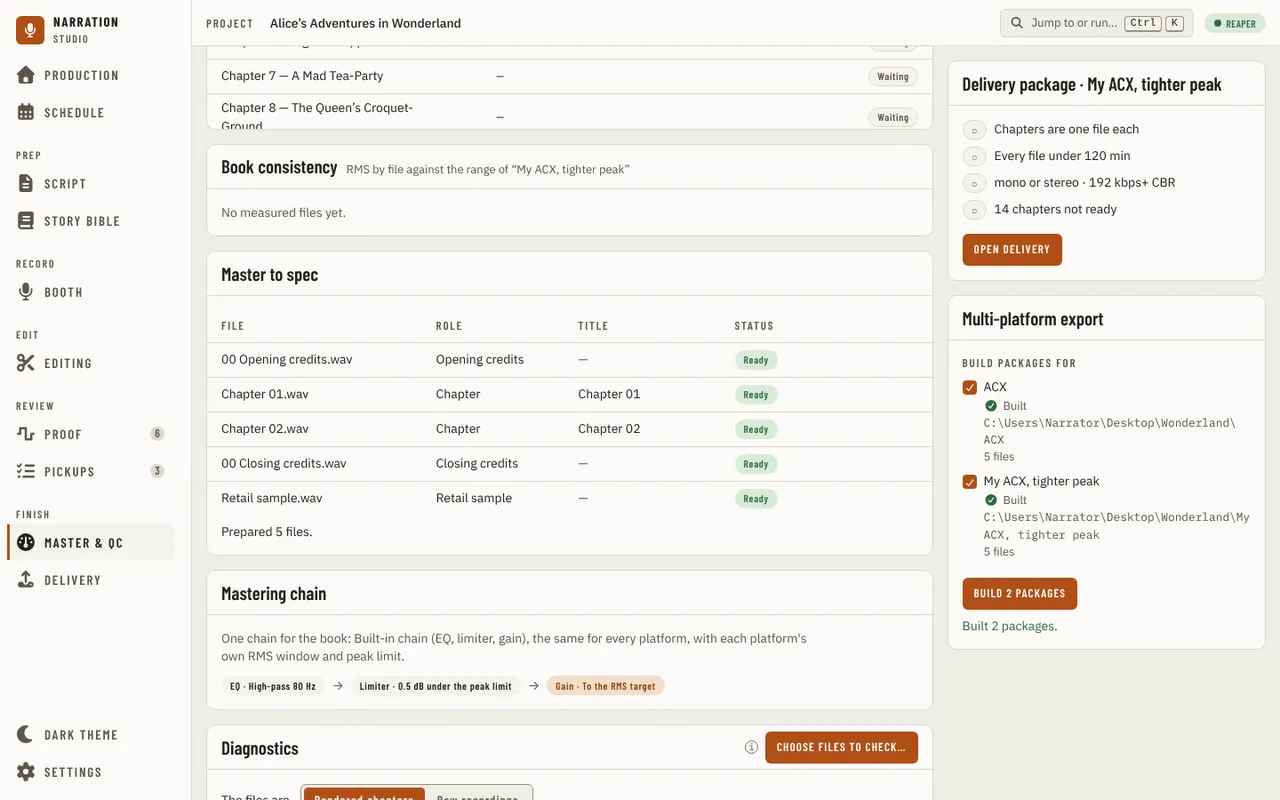
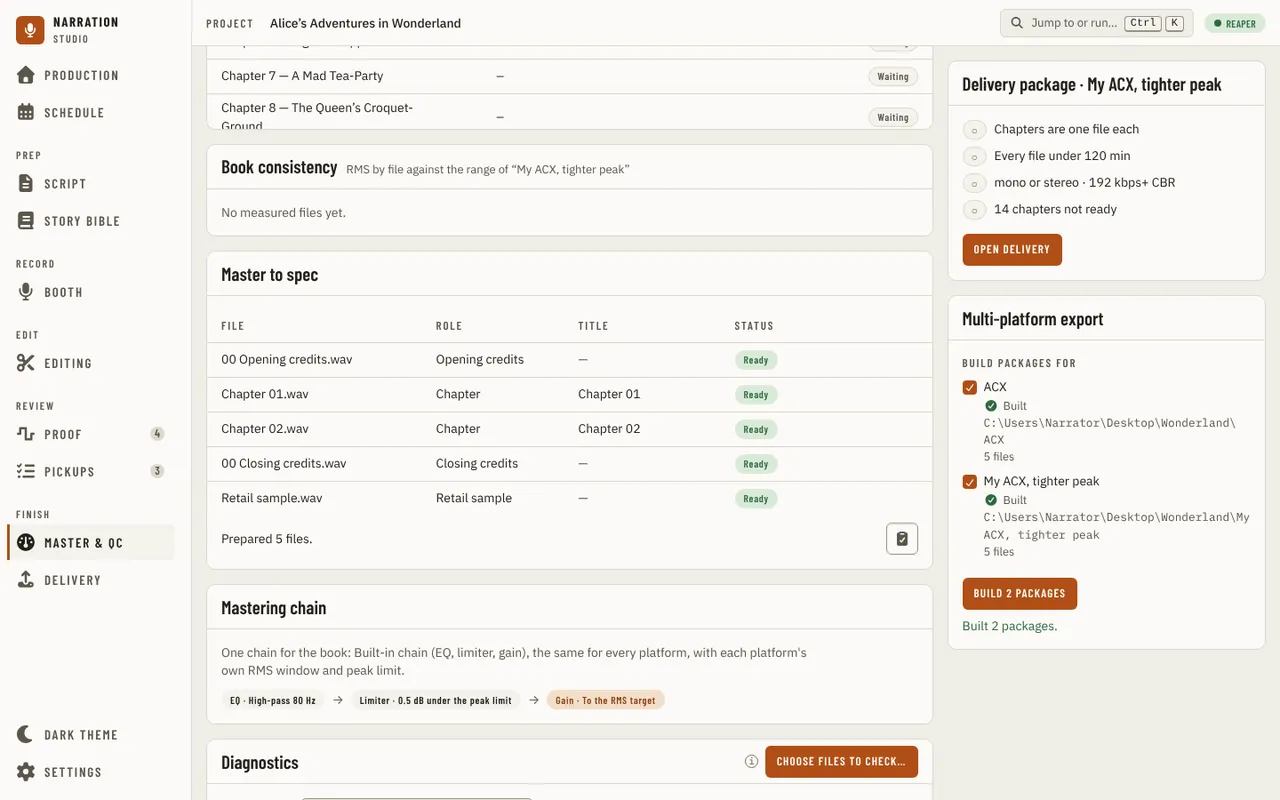
fix(ui): say the exported files are new copies and offer check files (#2661)

diff --git a/src/studio/ui/src/components/master/MasterToSpecPanel.tsx b/src/studio/ui/src/components/master/MasterToSpecPanel.tsx
@@ -2,6 +2,7 @@ import { useEffect, useRef } from 'react';
 import type { ExportJob, PackageItemKind } from '../../types';
 import { useErrorToast } from '../../hooks/useErrorToast';
 import { Button } from '../primitives/Button';
+import { IconButton } from '../primitives/IconButton';
 import { Checkbox } from '../primitives/Checkbox';
 import { Panel } from '../primitives/Panel';
 import { ProgressBar } from '../primitives/ProgressBar';
@@ -54,7 +55,7 @@ const TABLE_FLOOR = 'min-w-[44rem]';
  * with its role in the package and, for a chapter, its title, then Master & encode as one job with real progress and Cancel. It
  * appears once files are picked or a job exists; before that the page's header action is the way in.
  */
-export function MasterToSpecPanel({ jobs, chainLabel }: { jobs: ExportJobs; chainLabel?: string }) {
+export function MasterToSpecPanel({ jobs, chainLabel, onCheckFiles }: { jobs: ExportJobs; chainLabel?: string; onCheckFiles?: () => void }) {
   const { items, exportJob, exportRunning, problem } = jobs;
   const started = !!exportJob?.files.length;
   const hasFiles = items.length > 0 || started;
@@ -188,9 +189,15 @@ export function MasterToSpecPanel({ jobs, chainLabel }: { jobs: ExportJobs; chai
         </div>
       )}
       {exportJob && !exportRunning && exportJob.phase !== 'idle' && exportJob.phase !== 'error' && (
-        <p aria-live="polite" className={`mt-2 text-sm ${ARRIVE_CLASSES}`}>
-          {exportJob.message}
-        </p>
+        <div className={`mt-2 flex flex-wrap items-center justify-between gap-2 ${ARRIVE_CLASSES}`}>
+          <p aria-live="polite" className="min-w-0 flex-[1_1_20rem] text-sm">
+            {exportJob.message}
+          </p>
+          {exportJob.phase === 'success' && onCheckFiles && (
+            // The export writes new copies and measures nothing, so Delivery and the table above still go by the files that were checked (issue 2631): the tooltip says so.
+            <IconButton action="checkPreparedFiles" onClick={onCheckFiles} />
+          )}
+        </div>
       )}
     </Panel>
   );

diff --git a/src/studio/ui/src/components/master/MasterToSpecPanel.test.tsx b/src/studio/ui/src/components/master/MasterToSpecPanel.test.tsx
@@ -1,5 +1,5 @@
 // @vitest-environment jsdom
-import { cleanup, render, screen } from '@testing-library/react';
+import { cleanup, fireEvent, render, screen } from '@testing-library/react';
 import { afterEach, describe, expect, it, vi } from 'vitest';
 import type { ExportItem } from '../../types';
 import { toastTexts } from '../../fixtures/toasts';
@@ -54,5 +54,29 @@ describe('MasterToSpecPanel: showing up', () => {
     expect(toastTexts()).toEqual(['The encoder stopped.']);
     expect(container.textContent).not.toContain('The encoder stopped.');
     expect(screen.queryByRole('alert')).toBeNull();
+  });
+});
+
+describe('MasterToSpecPanel: after the files are prepared (issue 2631)', () => {
+  const done = {
+    phase: 'success',
+    message: 'Prepared 1 files.',
+    percent: 100,
+    files: [{ path: item.path, kind: 'chapter', title: 'Chapter 01', status: 'done' }],
+  };
+
+  it('offers an icon button that checks the prepared files, and draws no explanatory sentence', () => {
+    const onCheckFiles = vi.fn();
+    render(<MasterToSpecPanel jobs={jobs({ exportJob: done as never, items: [item] })} onCheckFiles={onCheckFiles} />);
+    expect(screen.queryByText(/new copies/i)).toBeNull();
+    fireEvent.click(screen.getByRole('button', { name: /check the prepared files/i }));
+    expect(onCheckFiles).toHaveBeenCalledTimes(1);
+  });
+
+  it('offers no Check files… after a failed or cancelled export, or when the page gives no way to check', () => {
+    const { rerender } = render(<MasterToSpecPanel jobs={jobs({ exportJob: { ...done, phase: 'error' } as never })} onCheckFiles={() => undefined} />);
+    expect(screen.queryByRole('button', { name: /check the prepared files/i })).toBeNull();
+    rerender(<MasterToSpecPanel jobs={jobs({ exportJob: done as never })} />);
+    expect(screen.queryByRole('button', { name: /check the prepared files/i })).toBeNull();
   });
 });

diff --git a/src/studio/ui/src/icons.catalog.ts b/src/studio/ui/src/icons.catalog.ts
@@ -32,6 +32,7 @@ import {
   faChevronRight,
   faChevronUp,
   faCheckDouble,
+  faClipboardCheck,
   faCircle,
   faCircleCheck,
   faClockRotateLeft,
@@ -232,6 +233,7 @@ export const CATALOG = {
   zoomOut: action(faMagnifyingGlassMinus, 'zoom out', 'Zoom out'),
   scrollWaveBack: action(faCaretLeft, 'scroll the waveform back', 'Scroll the waveform back'),
   scrollWaveForward: action(faCaretRight, 'scroll the waveform forward', 'Scroll the waveform forward'),
+  checkPreparedFiles: action(faClipboardCheck, 'check prepared files', 'Check the prepared files so Delivery counts them'),
   checkRecordings: action(faEarListen, 'check recordings', 'Check recordings'),
   problem: action(faTriangleExclamation, 'problem', 'Show the problem'),
   // The recording check's activity panel: the figures it labels, drawn with `Icon` and named by their tooltip.

diff --git a/src/studio/ui/src/components/masterqc/page/MasterPage.tsx b/src/studio/ui/src/components/masterqc/page/MasterPage.tsx
@@ -296,7 +296,7 @@ function MasterBody({ projectFolder, onOpenDelivery, openSettings, fileActions, 
             <Panel title="Book consistency" subtitle={profile ? `RMS by file against ${rangeOf(profile)}` : undefined}>
               <Consistency files={run.files} profile={profile} />
             </Panel>
-            <MasterToSpecPanel jobs={jobs} chainLabel={chain?.label} />
+            <MasterToSpecPanel jobs={jobs} chainLabel={chain?.label} onCheckFiles={() => void run.chooseOther()} />
             <MasteringChain providers={mastering.providers} problem={mastering.problem} />
             <DiagnosticsSection measuredPaths={run.paths} openSettings={openSettings} />
             <ReportExportPanel busy={run.running} measured={run.files.length > 0} />

diff --git a/docs/guides/using-the-app/master-and-qc.md b/docs/guides/using-the-app/master-and-qc.md
@@ -124,6 +124,10 @@ default) each file is mastered by the [chain](#the-mastering-chain) to the chose
 encoded; turn it off and the button reads **Encode**. The bar shows the files' progress, **Cancel** stops
 it, and each row's **Status** pill says whether it waits, is mastering, is encoding, is ready or failed, with the
 reason under a failure. Every stage writes a new file next to the app's own output: your renders are never changed.
+When it ends, the line under the bar says how many files were prepared. They are new copies, so the chapter table
+and [Delivery](delivery.md) still go by the files you checked: the check icon beside that line (its tooltip reads
+"Check the prepared files so Delivery counts them") opens the file picker to check the copies, and a chapter counts as
+mastered once its file passes.
 
 ![Master all to spec with five files picked and given a role](../../images/ui/master-to-spec-picked.webp)
 
